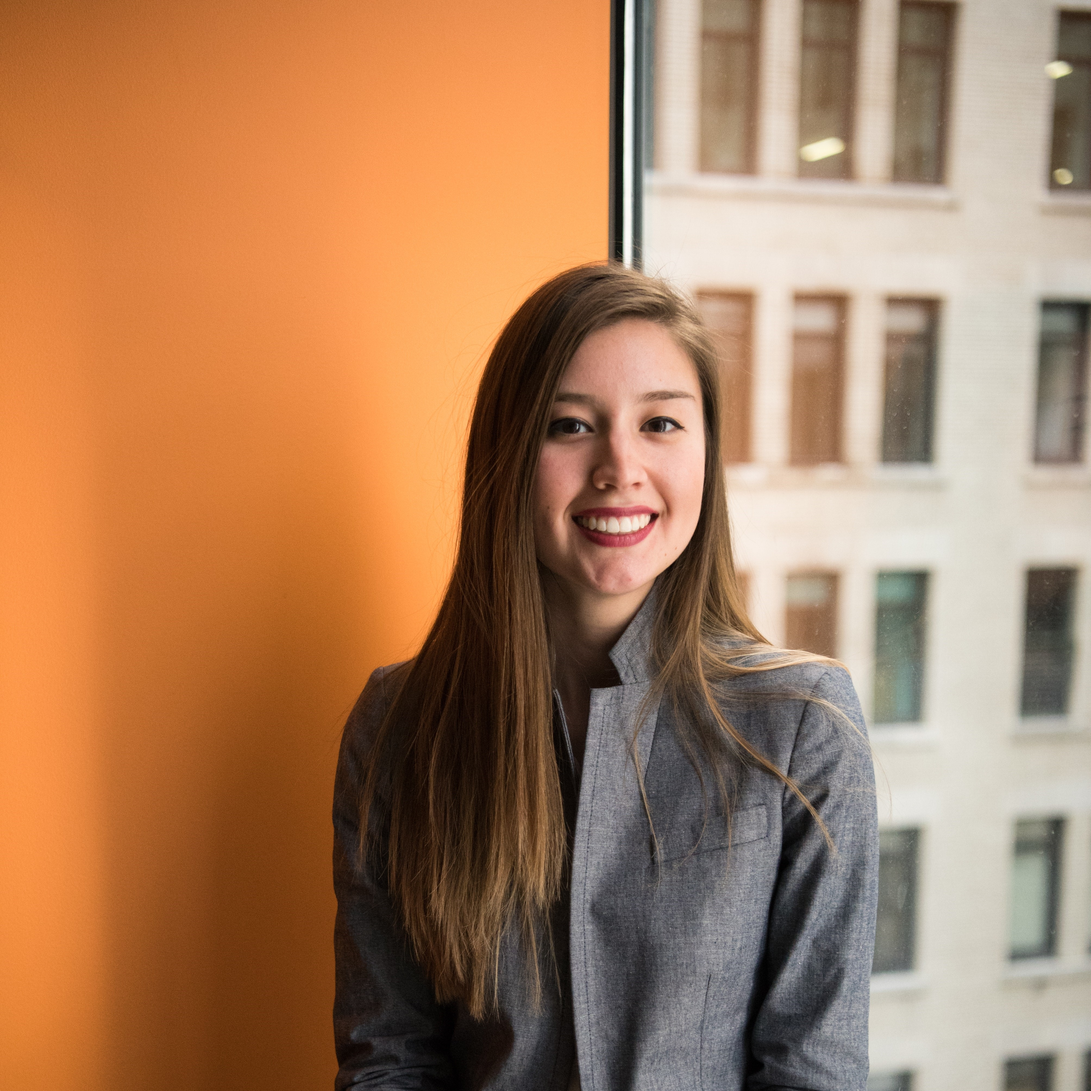
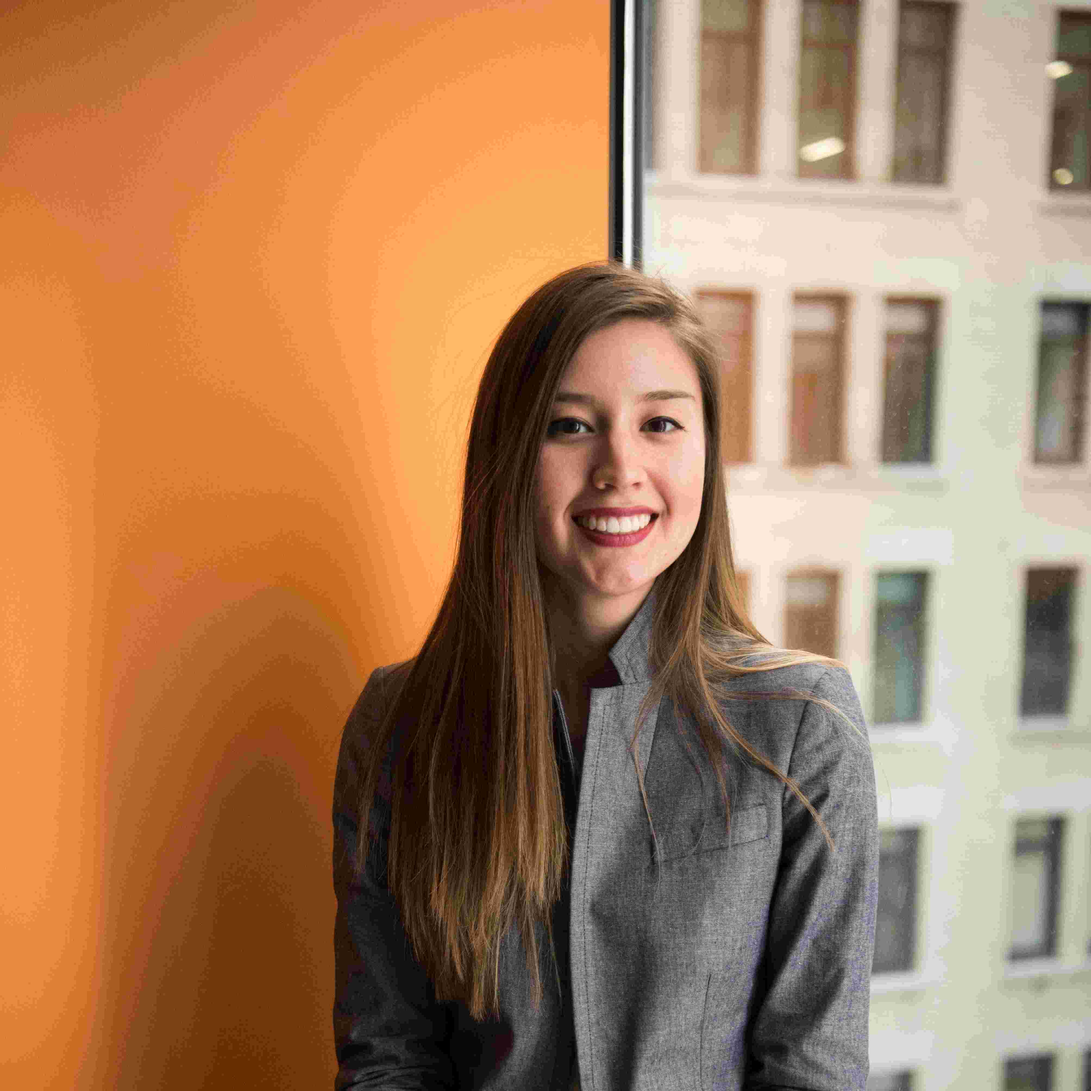
performance and SEO

Changed region(s): [[0.5291, 0.5603, 0.8093, 1.0], [0.4669, 0.8715, 0.498, 0.9649]]

diff --git a/src/components/TranslationsPage/Translations.js b/src/components/TranslationsPage/Translations.js
@@ -1,12 +1,9 @@
 import {Image} from 'react-bootstrap'
 import ImageTranslation from '../../images/RIL Assets-07.png'
-import {GoPrimitiveDot} from 'react-icons/go'
 import { useContext, useState, useEffect } from 'react';
 import ContextChosenLanguage from '../../Context';
 import { chosenLanguage } from '../../utils/language';
 import { HashLink as Link } from 'react-router-hash-link';
-
-
 
 
 function Translations (props) {
@@ -30,7 +27,7 @@ function Translations (props) {
                 <p>{props.translationsParagraphOne}</p>  
                     </div>
                     <div className="col-md-7 col-12">
-                <Image src={ImageTranslation} className="img-fluid d-none d-md-block w-50 d-flex mx-auto"/>
+                <Image src={ImageTranslation} alt="ImageTranslation" className="img-fluid d-none d-md-block w-50 d-flex mx-auto"/>
                     </div>
             </div>
          
@@ -40,27 +37,27 @@ function Translations (props) {
                     </div>
                     <div className="col-md-6 col-12">
                         <ul className="ps-0 ms-0 text-font">
-                            <li><i>{<GoPrimitiveDot className="me-1"/>}</i>{props.translationsPublicListOne}</li>
-                            <li><i>{<GoPrimitiveDot className="me-1"/>}</i>{props.translationsPublicListTwo}</li>
-                            <li><i>{<GoPrimitiveDot className="me-1"/>}</i>{props.translationsPublicListThree}</li>
-                            <li><i>{<GoPrimitiveDot className="me-1"/>}</i>{props.translationsPublicListFour}</li>
-                            <li><i>{<GoPrimitiveDot className="me-1"/>}</i>{props.translationsPublicListFive}</li>
-                            <li><i>{<GoPrimitiveDot className="me-1"/>}</i>{props.translationsPublicListSix}</li>
-                            <li><i>{<GoPrimitiveDot className="me-1"/>}</i>{props.translationsPublicListSeven}</li>
-                            <li><i>{<GoPrimitiveDot className="me-1"/>}</i>{props.translationsPublicListEight}</li>
-                            <li><i>{<GoPrimitiveDot className="me-1"/>}</i>{props.translationsPublicListNine}</li>
+                            <li>{props.translationsPublicListOne}</li>
+                            <li>{props.translationsPublicListTwo}</li>
+                            <li>{props.translationsPublicListThree}</li>
+                            <li>{props.translationsPublicListFour}</li>
+                            <li>{props.translationsPublicListFive}</li>
+                            <li>{props.translationsPublicListSix}</li>
+                            <li>{props.translationsPublicListSeven}</li>
+                            <li>{props.translationsPublicListEight}</li>
+                            <li>{props.translationsPublicListNine}</li>
                         </ul>
                     </div>
             </div>
             <div className="row mt-5">
                 <div className="col-md-5 col-12 offset-md-1">
                     <ul  className="ps-0 ms-0 pe-5 text-font">
-                        <li><i>{<GoPrimitiveDot className="me-1"/>}</i>{props.translationsPrivateListOne}</li>
-                        <li><i>{<GoPrimitiveDot className="me-1"/>}</i>{props.translationsPrivateListTwo}</li>
-                        <li><i>{<GoPrimitiveDot className="me-1"/>}</i>{props.translationsPrivateListThree}</li>
-                        <li><i>{<GoPrimitiveDot className="me-1"/>}</i>{props.translationsPrivateListFour}</li>
-                        <li><i>{<GoPrimitiveDot className="me-1"/>}</i>{props.translationsPrivateListFive}</li>
-                        <li><i>{<GoPrimitiveDot className="me-1"/>}</i>{props.translationsPrivateListSix}</li>
+                        <li>{props.translationsPrivateListOne}</li>
+                        <li>{props.translationsPrivateListTwo}</li>
+                        <li>{props.translationsPrivateListThree}</li>
+                        <li>{props.translationsPrivateListFour}</li>
+                        <li>{props.translationsPrivateListFive}</li>
+                        <li>{props.translationsPrivateListSix}</li>
                      </ul>
                     </div>
                     <div className="col-md-6 col-12 order-first order-md-last">
@@ -73,9 +70,9 @@ function Translations (props) {
                     </div>
                     <div className="col-md-6 col-12">
                         <ul className="ps-0 ms-0 text-font">
-                            <li><i>{<GoPrimitiveDot className="me-1"/>}</i>{props.translationsInterpretationListOne}</li>
-                            <li><i>{<GoPrimitiveDot className="me-1"/>}</i>{props.translationsInterpretationListTwo}</li>
-                            <li><i>{<GoPrimitiveDot className="me-1"/>}</i>{props.translationsInterpretationListThree}</li>
+                            <li>{props.translationsInterpretationListOne}</li>
+                            <li>{props.translationsInterpretationListTwo}</li>
+                            <li>{props.translationsInterpretationListThree}</li>
                         </ul>
                             </div>
                          </div>

diff --git a/src/components/HomePage/AboutUs.js b/src/components/HomePage/AboutUs.js
@@ -35,7 +35,7 @@ function AboutUs() {
           </div>
           </div>
           <div className=" col-md-5 mt-md-5 order-first order-md-last">
-          <ul className="mt-md-5 text-font">
+          <ul className="mt-md-5 text-font textDecoNone">
             <li><BsCheckLg
             color="green"
             size="1.5em"

diff --git a/src/components/FormPage/Form.js b/src/components/FormPage/Form.js
@@ -776,7 +776,7 @@ function Form() {
             <div>
             <ReCAPTCHA
 			      className= "mt-3"
-				ref={recaptchaRef}
+				          ref={recaptchaRef}
                   sitekey={process.env.REACT_APP_SITE_KEY}                
                   theme="dark"
                   onChange={onChangeCaptcha}

diff --git a/src/components/HomePage/Hero.js b/src/components/HomePage/Hero.js
@@ -1,5 +1,5 @@
 import ImageHero from "../../images/RIL Assets-01.png";
-import Team from "../../images/Team.png";
+import Team from "../../images/Team.jpg";
 import Image from "react-bootstrap/Image";
 import { useContext, useState, useEffect } from "react";
 import ContextChosenLanguage from "../../Context";

diff --git a/src/custom.scss b/src/custom.scss
@@ -124,7 +124,9 @@ h1 {
     align-items: center;
 }
 
-
+.textDecoNone {
+    list-style: none;
+}
 
 
 

diff --git a/public/index.html b/public/index.html
@@ -158,6 +158,8 @@
         height: fit-content;
       }
 
+    
+
       
     
       </style>

diff --git a/src/App.css b/src/App.css
@@ -37,3 +37,4 @@
     transform: rotate(360deg);
   }
 }
+
